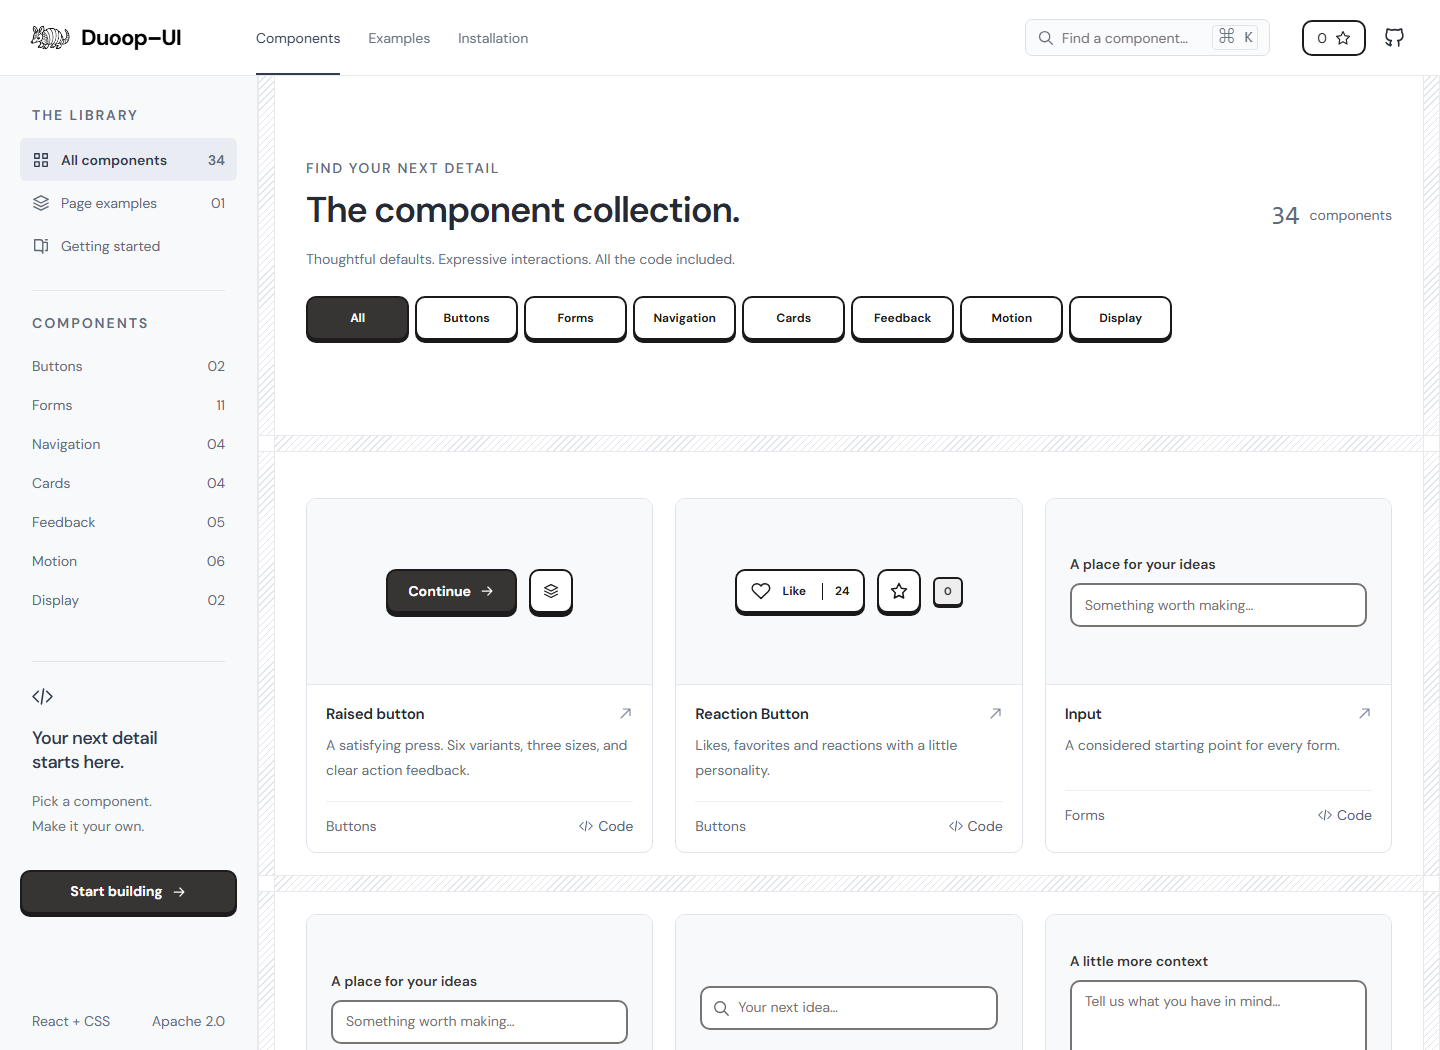
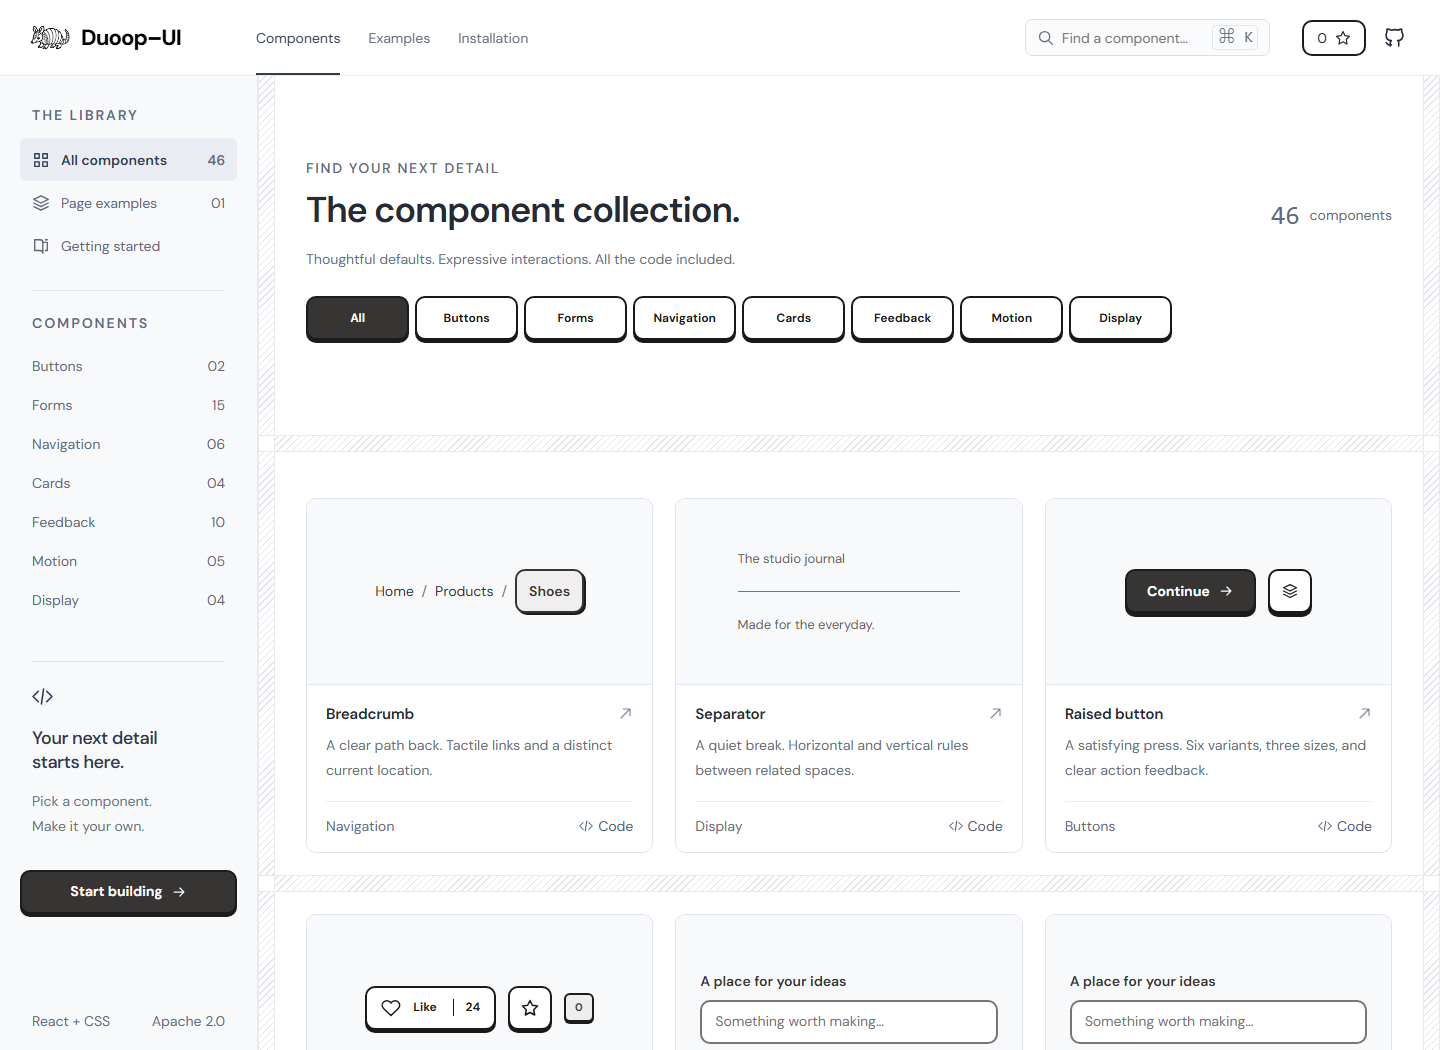
Refresh catalog documentation and screenshot for 46 components

diff --git a/index.html b/index.html
@@ -6,7 +6,7 @@
     <meta name="theme-color" content="#f7f8fa" />
     <meta name="description" content="Tactile React components for interfaces that feel right. Explore live previews, copy complete source files, and build with Duoop-UI." />
     <meta property="og:title" content="Duoop-UI — Tactile React components" />
-    <meta property="og:description" content="34 considered components. Live examples, complete source code and an installation guide. React + CSS, made to be yours." />
+    <meta property="og:description" content="Tactile React components. Live examples, complete source code and an installation guide. React + CSS, made to be yours." />
     <meta property="og:type" content="website" />
     <link rel="icon" type="image/svg+xml" href="/favicon.svg" />
     <title>Duoop-UI — Tactile React components</title>

diff --git a/SEO.md b/SEO.md
@@ -11,7 +11,7 @@ Production uses https://duoop-ui.pages.dev/. An HTTP check on September 8, 2026 
 - Allow all crawlers, including Googlebot and Bingbot. No private server area, cart, or administration interface was identified in this catalog. CSS, JavaScript, images, categories, and navigation parameters remain accessible.
 - Internal search results (`q`) and nonexistent components receive `noindex, follow` in the application. Keep them crawlable so engines can read the directive.
 - Components, categories, installation, and examples have distinct canonical URLs. Remove tab and tracking parameters from canonicals. Search/error views must not announce conflicting canonicals.
-- The sitemap contains 46 URLs: home, catalog, installation, examples index, landing-page example, 7 categories, and 34 components. Exclude searches, alternate tabs, invented modification dates, and preview domains.
+- The sitemap contains 58 URLs: home, catalog, installation, examples index, landing-page example, 7 categories, and 46 components. Exclude searches, alternate tabs, invented modification dates, and preview domains.
 - `llms.txt` is an optional Markdown index for AI agents, not a Google ranking factor or indexing guarantee.
 - No `llms-full.txt` is needed for the current scope. A second `sitemap.txt` would duplicate the XML sitemap.
 - Do not add `ads.txt`/`app-ads.txt` without relevant advertising activity, `security.txt` without a defined reporting process and contact, or IndexNow without an actual key integration.

diff --git a/README.md b/README.md
@@ -30,7 +30,7 @@ This repository contains the documentation site and component sources. Distribut
 
 ## Explore the collection
 
-**44 components · 7 categories**, each with downloadable examples. The essential collection adds Tooltip, Popover, Slider, Calendar, Date Picker, Table, Pagination, Sheet, File Upload, Skeleton and Alert. See [integration notes and verification](docs/essential-components.md).
+**46 components · 7 categories**, each with downloadable examples. The collection includes Breadcrumb and Separator, plus Tooltip, Popover, Slider, Calendar, Date Picker, Table, Pagination, Sheet, File Upload, Skeleton and Alert. See [integration notes and verification](docs/essential-components.md).
 
 | Collection | Explore |
 | --- | --- |
